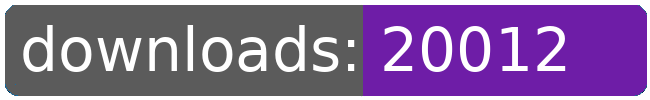
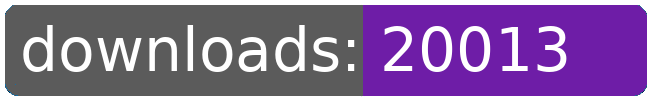
dl log written

Changed region(s): [[0.8308, 0.42, 0.8923, 0.72], [0.8, 0.27, 0.8615, 0.33]]

diff --git a/README.md b/README.md
@@ -21,8 +21,8 @@
 		<td>1373</td>
 		<td>1405</td>
 		<td>1430</td>
-		<td>1454</td>
-		<td>+ 24</td>
+		<td>1455</td>
+		<td>+ 25</td>
 	</tr>
 	<tr>
 		<td>aberrant.kahet.outfitter</td>
@@ -252,8 +252,8 @@
 		<td></td>
 		<td></td>
 		<td></td>
-		<td>20012</td>
-		<td>423</td>
+		<td>20013</td>
+		<td>424</td>
 	</tr>
 </table>
 </sub></sup>
@@ -311,8 +311,8 @@
 		<td>1373</td>
 		<td>1405</td>
 		<td>1430</td>
-		<td>1454</td>
-		<td>+ 24</td>
+		<td>1455</td>
+		<td>+ 25</td>
 	</tr>
 	<tr>
 		<td>purchase.bactrian</td>
@@ -509,8 +509,8 @@
 		<td></td>
 		<td></td>
 		<td></td>
-		<td>20012</td>
-		<td>423</td>
+		<td>20013</td>
+		<td>424</td>
 	</tr>
 </table>
 </sub></sup>
